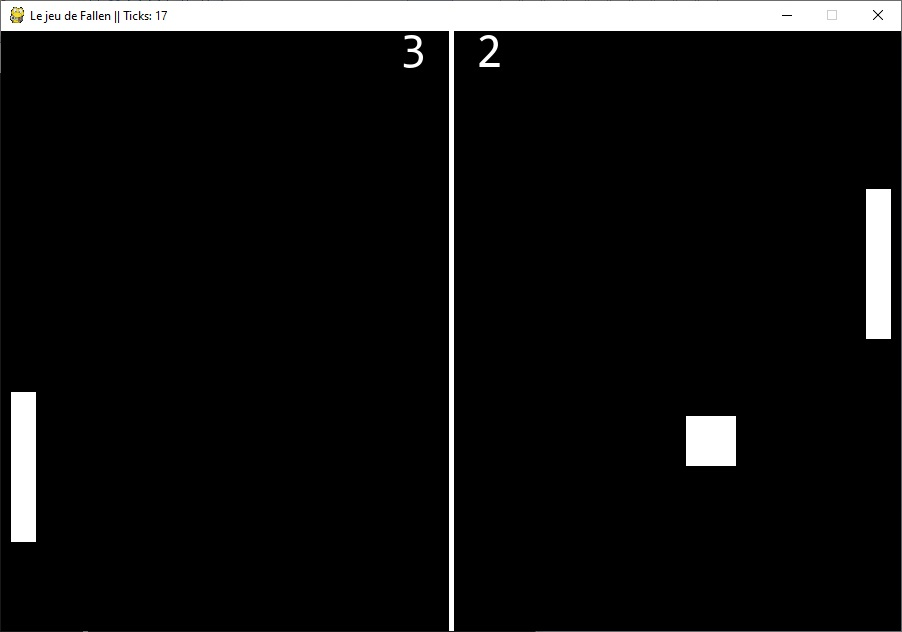
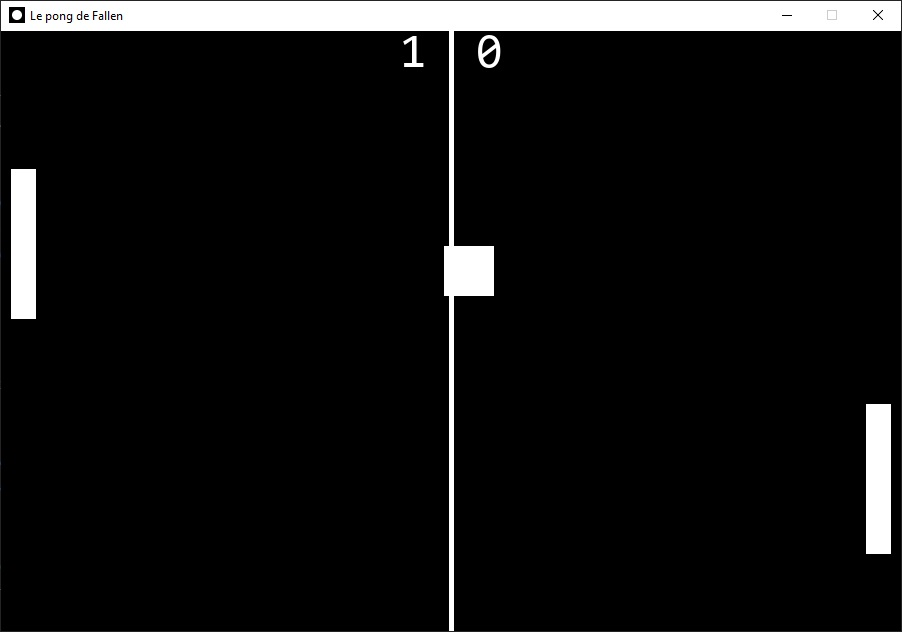
Amelioration overall

diff --git a/main.py b/main.py
@@ -11,9 +11,11 @@ pathTxt = os.path.abspath(os.path.dirname(sys.argv[0])) + r'/'
 pygame.mixer.pre_init(44100, -16, 2, 512)
 pygame.init()
 window = pygame.display.set_mode([WIDTH, HEIGHT])
-pygame.display.set_caption('Le pong de Fallen')
 font = pygame.font.SysFont("consolas", 48)
 clock = pygame.time.Clock()
+icon = pygame.image.load(pathTxt + 'icon/icon1.jpg')
+pygame.display.set_caption('Le pong de Fallen')
+pygame.display.set_icon(icon)
 
 class player(object):
 	def __init__(self, x, y, width, height, vel):
